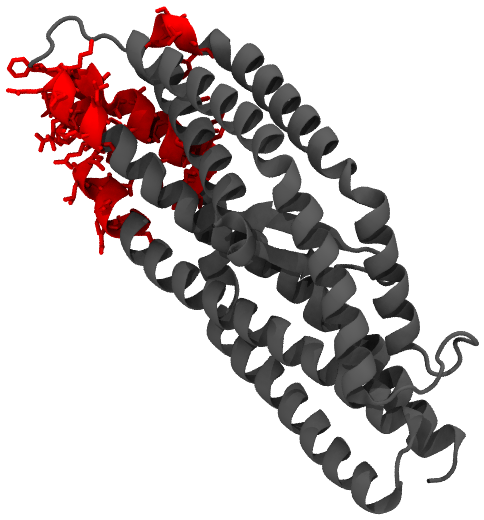
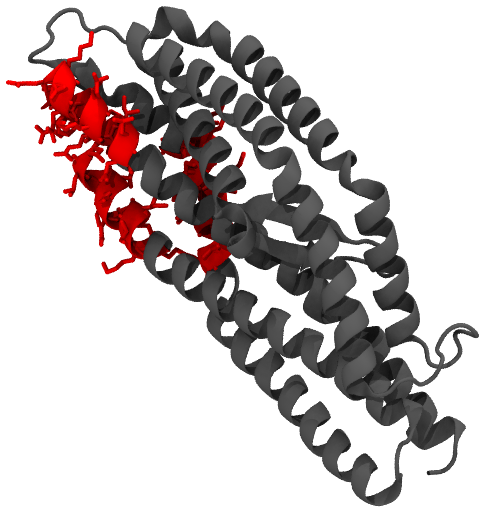
docs: feature one compact candidate (i=9) across the home demo and methods example
The "selected" patch on the home page and the methods worked-example figure now
show the SAME growPatch candidate so the two pages tell one coherent story. Swapped
from the fragmented top candidate (i=82, 3 segments) to candidate i=9: two tidy
contiguous blocks A:312-323;A:387-412, 2nd by total DiscoTope (Sum 17.8 over 38
residues) -- reads like a clean epitope while still ranking near the top.

Claude-Session: https://claude.ai/code/session_01UnbU2XAnf3AQvdSJq3XEXq

diff --git a/docs/methods.html b/docs/methods.html
@@ -166,10 +166,10 @@ figure.dgm figcaption{font-size:11.5px;color:#6a7686;margin:7px auto 0;max-width
     <figure class="dgm">
       <img src="img/fig/growpatch_candidate.png?v=2" loading="lazy" style="max-width:360px"
            alt="8PWW chain A as a grey ribbon with the residues of one finished growPatch candidate highlighted in red.">
-      <figcaption>A finished growPatch candidate on 8PWW chain A: candidate&nbsp;82, the top-ranked
-      candidate for this input. Its gap-filled segments
-      <b style="color:#c0392b">A:197&ndash;200; A:301&ndash;316; A:390&ndash;409</b> (red) are the
-      segments sent to scaffold design; its total DiscoTope score is 18.1 over 40 of 40 residues.</figcaption>
+      <figcaption>A finished growPatch candidate on 8PWW chain A: candidate&nbsp;9, a high-ranking
+      candidate (2nd by total DiscoTope for this input). Its gap-filled segments
+      <b style="color:#c0392b">A:312&ndash;323; A:387&ndash;412</b> (red) are the
+      segments sent to scaffold design; its total DiscoTope score is 17.8 over 38 of 38 residues.</figcaption>
     </figure>
     <div class="why"><b>Reference-implementation check:</b> on chain A of 8PWW, the neighbor-growth
     implementation reproduces the 227 reference candidates for the tested input and configuration &mdash;
